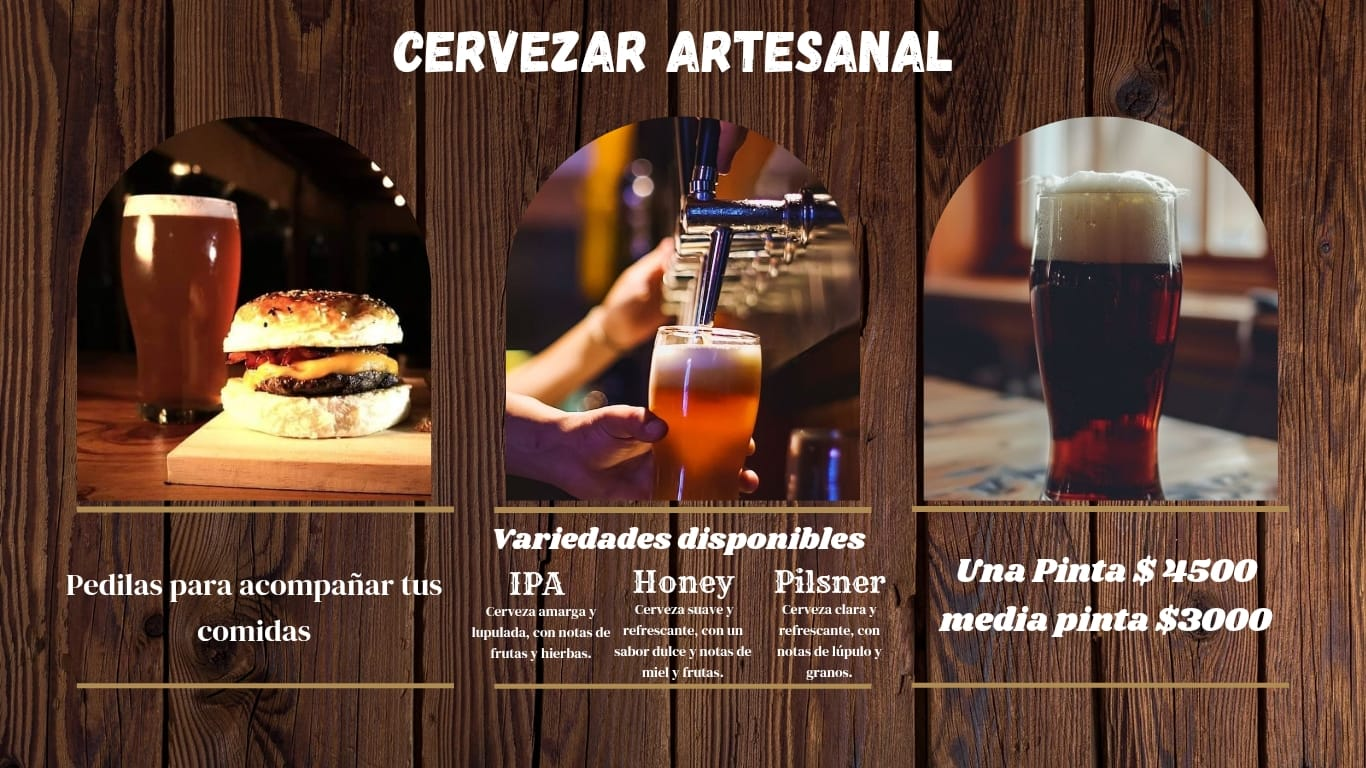
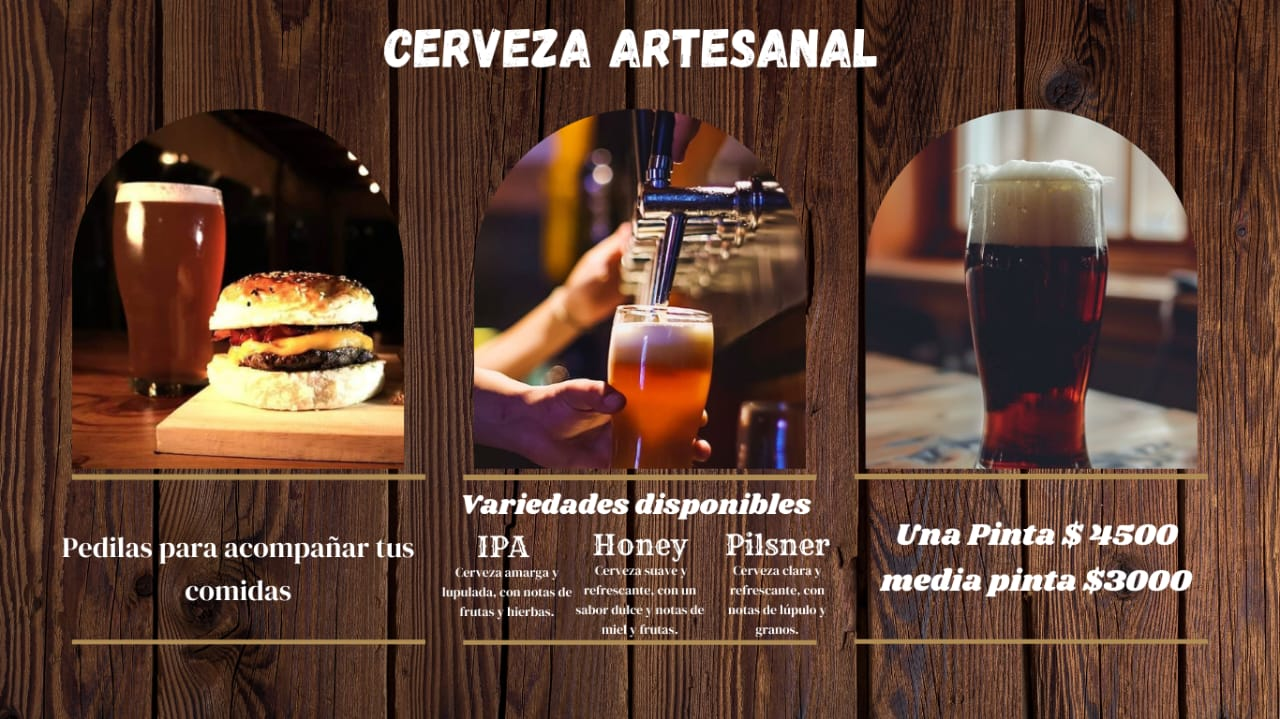
modifico estilos de la sección sobre nosotros y menu

diff --git a/sitioWeb/templates/sobrenosotros.html b/sitioWeb/templates/sobrenosotros.html
@@ -1,0 +1,78 @@
+{% extends "layouts/base.html" %}
+{% block head %} 
+ {{block.super}}
+ <link rel="stylesheet" href="static/estilos/sobrenosotros.css">
+{% endblock %} 
+
+{% block content %} 
+<main class="">
+    <div class="wave-header">
+       <svg id="wave" style="transform:rotate(180deg); transition: 0.3s" viewBox="0 0 1440 370" version="1.1" xmlns="http://www.w3.org/2000/svg"><defs><linearGradient id="sw-gradient-0" x1="0" x2="0" y1="1" y2="0"><stop stop-color="rgba(94, 16, 17, 1)" offset="0%"></stop><stop stop-color="rgba(94   |                                                                                                                                                        , 16, 17, 1)" offset="100%"></stop></linearGradient></defs>
+        <path style="transform:translate(0, 0px); opacity:1" fill="url(#sw-gradient-0)" 
+        d="M0,111L60,135.7C120,160,240,210,360,240.5C480,271,600,284,720,289.8C840,296,960,296,1080,271.3C1200
+        ,247,1320,197,1440,178.8C1560,160,1680,173,1800,154.2C1920,136,2040,86,2160,92.5C2280,99,2400,160,2520
+        ,154.2C2640,148,2760,74,2880,49.3C3000,25,3120,49,3240,49.3C3360,49,3480,25,3600,61.7C3720,99,3840,197
+        ,3960,222C4080,247,4200,197,4320,160.3C4440,123,4560,99,4680,123.3C4800,148,4920,222,5040,234.3C5160
+        ,247,5280,197,5400,197.3C5520,197,5640,247,5760,259C5880,271,6000,247,6120,203.5C6240,160,6360,99,6480
+        ,80.2C6600,62,6720,86,6840,111C6960,136,7080,160,7200,166.5C7320,173,7440,160,7560,154.2C7680,148,7800
+        ,148,7920,141.8C8040,136,8160,123,8280,154.2C8400,185,8520,259,8580,296L8640,333L8640,370L8580,370C8520,
+        370,8400,370,8280,370C8160,370,8040,370,7920,370C7800,370,7680,370,7560,370C7440,370,7320,370,7200,
+        370C7080,370,6960,370,6840,370C6720,370,6600,370,6480,370C6360,370,6240,370,6120,370C6000,370,5880,370
+        ,5760,370C5640,370,5520,370,5400,370C5280,370,5160,370,5040,370C4920,370,4800,370,4680,370C4560,370,4440
+        ,370,4320,370C4200,370,4080,370,3960,370C3840,370,3720,370,3600,370C3480,370,3360,370,3240,370C3120,370,
+        3000,370,2880,370C2760,370,2640,370,2520,370C2400,370,2280,370,2160,370C2040,370,1920,370,1800,370C1680,370
+        ,1560,370,1440,370C1320,370,1200,370,1080,370C960,370,840,370,720,370C600,370,480,370,360,370C240,370,120,370,60,370L0,370Z">
+       </path>
+    </svg>
+</div>
+    <div>
+        <section class="textoInicial d-flex flex-column align-items-center">
+        <h1 class="text-center">Nuestra Historia</h1>
+        <p class="parrafo">En la ciudad de Quilmes, Provincia de Buenos Aires, nació un joven llamado Pablo Lazo con una pasión innata por la cocina.
+            La decisión de sus padres de mudarse a la ciudad Pila, un pueblo pequeño, cuando él era apenas un niño, resultó ser un punto de inflexión en su vida.
+            Fue allí donde, su motivación inicialmente fue por su deseo de mejorar la comida que su madre preparaba.
+            Y con solo 7 años, comenzó a incursionar más en el mundo de la cocina vendiendo facturas, aunque para que la gente se las comprara porque sabía que en aquel entonces era solo un niño,
+            pidió ayuda a sus mayores con el tema de las ventas. Con el tiempo, su entusiasmo por la cocina crecía,
+            el joven se instruyó bajo la tutela de uno de los mejores cocineros de Pila, el dueño del restaurante "Lo De Juanjo".
+        </p>
+        
+        <span class="textoOculto" id="textoOculto">
+        <p class="parrafo">
+            Su determinación por estudiar cocina lo llevó a ahorrar cada peso que ganaba en su trabajo para poder pagar sus estudios en el
+            Instituto Gastronómico Argentino (IGA). Finalmente, después de años de esfuerzo y dedicación, logró graduarse.
+        </p>
+
+        
+        <p class="parrafo">
+            Fue entonces cuando decidió dar vida a su proyecto más ambicioso hasta ese momento: "Pomodoro Rock". Con una visión clara y una 
+            pasión inquebrantable, comenzó a construir su propio restaurante, que con el tiempo se convertiría en un patio cervecero donde la 
+            creación de cerveza artesanal y hamburguesas excepcionales se convirtieron en su sello distintivo.
+        </p>
+
+        <p class="parrafo">
+            La historia de "Pomodoro Rock" es un testimonio de la perseverancia y la innovación. Desde sus 
+            humildes comienzos como un pequeño local de venta de comida para llevar, pasando por su evolución como restaurante y patio cervecero, cada paso ha estado 
+            marcado por la creatividad y el compromiso de su fundador.
+        </p>
+
+        <p class="parrafo">
+            Hoy en día, nos gusta pensar que "Pomodoro Rock" es sinónimo de excelencia gastronómica y hospitalidad. 
+            Su legado es una inspiración para todos aquellos que buscan convertir sus pasiones en realidad, y su historia
+            es un recordatorio de que, con dedicación y visión, cualquier sueño puede hacerse realidad.
+        </p>
+        </span>
+        <button class="btn btn-primary leerMas" onclick="modificarTexto()">Leer Más</button>
+    
+    </section>
+
+        
+    </div>
+    </main>
+
+
+
+<script src="../static/js/sobrenosotros.js"> </script>
+{% endblock %} 
+
+
+<!--<img src="static/imagenes/sobrenosotros.jpg" alt="Imagen del menu"> -->

diff --git a/sitioWeb/templates/home.html b/sitioWeb/templates/home.html
@@ -17,7 +17,7 @@
         
         <a href="/menu" class="btn btn-primary boton ps-5 bordo menu">Menú <i class="fa-solid fa-arrow-right icono"></i></a>
         <a href="/cervezaartesanal" class="btn btn-primary boton blanco ps-5 cerveza ">Cerveza Artesanal <i class="fa-solid fa-arrow-right icono"></i></a>
-        <a href="/sobrenosotros" class="btn btn-primary boton bordo ps-5 sobrenosotros">Sobre nosotros <i class="fa-solid fa-arrow-right icono"></i></a>
+        <a href="/sobrenosotros" class="btn btn-primary bree-serif-regular boton bordo ps-5 sobrenosotros">Sobre nosotros <i class="fa-solid fa-arrow-right icono"></i></a>
         <a href="" class="btn btn-primary boton ps-5 blanco reservaciones">Reservaciones   <i class="fa-solid fa-arrow-right icono"></i></a>
         <a href="" class="btn btn-primary boton ps-5 bordo promos">Promos de hoy   <i class="fa-solid fa-arrow-right icono"></i></a>
         <a href="" class="btn btn-primary boton ps-5 blanco cena">Cena y eventos privados  <i class="fa-solid fa-arrow-right icono"></i></a>

diff --git a/sitioWeb/static/estilos/sobrenosotros.css b/sitioWeb/static/estilos/sobrenosotros.css
@@ -1,0 +1,55 @@
+@import url('https://fonts.googleapis.com/css2?family=Bebas+Neue&family=Bree+Serif&display=swap');
+
+
+:root {
+    --font-bebas-neue: 'Bebas Neue', cursive;
+    --font-bree-serif: 'Bree Serif', serif;
+    --color-primario: #313131;
+    --color-secundario: #941617;
+}
+
+
+main {
+   
+    width: 100%;
+    height: 100vh;
+}
+
+.wave-header {
+    width: 100%;
+    height: 35vh;
+   
+}
+
+h1 {
+    text-align: center;
+    margin-top: -2rem;
+    font-size: 3.5rem;
+    font-family: var(--font-bree-serif);
+    color: var(--color-primario);
+ 
+}
+
+
+
+
+.parrafo {
+    font-size: 1.3rem;
+    text-align: center;
+    padding: 1% 10%;
+    font-weight: bold;
+    font-family: Georgia, 'Times New Roman', Times, serif
+}
+
+.textoOculto {
+    display: none;
+}
+
+
+.leerMas {
+    font-size: 1.3rem;
+    font-family: var(--font-bebas-neue);
+    color: var(--color-primario);
+    background-color: var(--color-secundario) ;
+    
+}

diff --git a/sitioWeb/templates/layouts/base.html b/sitioWeb/templates/layouts/base.html
@@ -1,6 +1,9 @@
 {% block head %}
     <link href="https://cdn.jsdelivr.net/npm/bootstrap@5.3.3/dist/css/bootstrap.min.css" rel="stylesheet" integrity="sha384-QWTKZyjpPEjISv5WaRU9OFeRpok6YctnYmDr5pNlyT2bRjXh0JMhjY6hW+ALEwIH" crossorigin="anonymous">
     <script src="https://cdn.jsdelivr.net/npm/bootstrap@5.3.3/dist/js/bootstrap.bundle.min.js" integrity="sha384-YvpcrYf0tY3lHB60NNkmXc5s9fDVZLESaAA55NDzOxhy9GkcIdslK1eN7N6jIeHz" crossorigin="anonymous"></script>
+    <link rel="preconnect" href="https://fonts.googleapis.com">
+    <link rel="preconnect" href="https://fonts.gstatic.com" crossorigin>
+    <link href="https://fonts.googleapis.com/css2?family=Bree+Serif&display=swap" rel="stylesheet">
  {% endblock %} 
  
 

diff --git a/sitioWeb/static/js/sobrenosotros.js b/sitioWeb/static/js/sobrenosotros.js
@@ -1,0 +1,26 @@
+
+
+
+function modificarTexto(){
+    let boton = document.querySelector(".leerMas")
+    let texto = document.getElementById("textoOculto");
+
+    boton.addEventListener("click", () => {
+        if (texto.style.display == "none"){
+            mostrarTextoOculto(texto,boton);
+        }else{
+            ocultarTextoOculto(texto, boton);
+        }
+    });
+    return;
+}
+
+function mostrarTextoOculto(texto,boton){
+    texto.style.display = "block";
+    boton.innerHTML = "Ver menos";
+}
+
+function ocultarTextoOculto(texto, boton){
+    texto.style.display = "none";
+    boton.innerHTML = "Leer más";
+}

diff --git a/sitioWeb/static/estilos/home.css b/sitioWeb/static/estilos/home.css
@@ -93,6 +93,13 @@ main {
     text-decoration: none;
 }
 
+.bree-serif-regular {
+    font-family: "Bree Serif", serif;
+    font-weight: 400;
+    font-style: normal;
+  }
+  
+
 .boton.bordo {
     background-color: #941617;
     border: 2px solid #ffffff;

diff --git a/sitioWeb/templates/menu.html b/sitioWeb/templates/menu.html
@@ -5,7 +5,7 @@
 {% endblock %} 
 
 {% block content %} 
-<main>
+<main class="menu d-flex justify-content-center align-items-center bg-dark">
 <img src="static/imagenes/menu.jpg" alt="Imagen del menu">
 </main>
 {% endblock %} 

diff --git a/sitioWeb/static/estilos/menu.css b/sitioWeb/static/estilos/menu.css
@@ -1,0 +1,4 @@
+img1 {
+    width: 100%;
+    height: 100vh;
+}

diff --git a/sitioWeb/urls.py b/sitioWeb/urls.py
@@ -6,4 +6,5 @@ urlpatterns = [
     path("", views.home, name="home"),
     path("menu", views.menu, name="menu"),
     path("cervezaartesanal", views.cerveza, name="cerveza"),
+    path("sobrenosotros", views.sobrenosotros, name="sobrenosotros"),
 ]

diff --git a/sitioWeb/views.py b/sitioWeb/views.py
@@ -14,3 +14,7 @@ def menu(request):
 
 def cerveza(request):
     return render(request, "cerveza.html")
+
+
+def sobrenosotros(request):
+    return render(request, "sobrenosotros.html")
